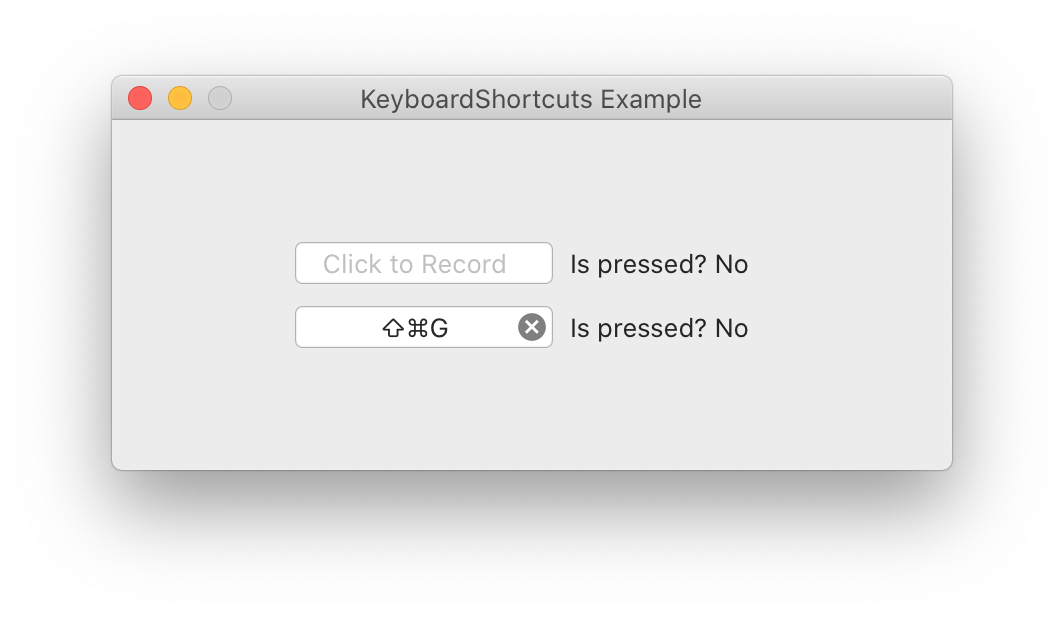
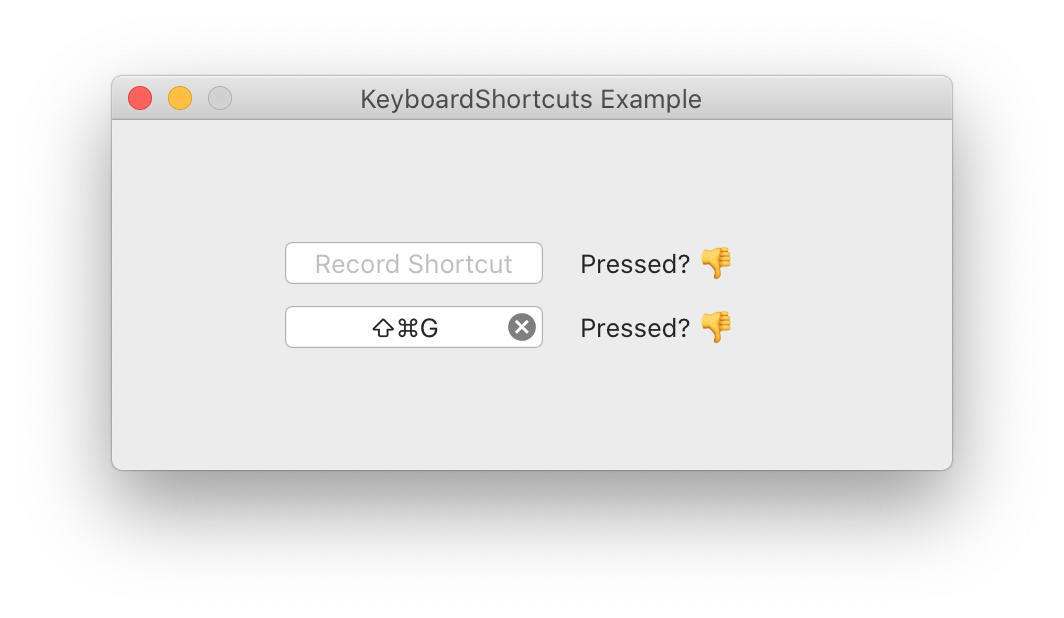
Cancel recording when the user clicks outside the input
Fixes #4

diff --git a/Sources/KeyboardShortcuts/RecorderCocoa.swift b/Sources/KeyboardShortcuts/RecorderCocoa.swift
@@ -40,12 +40,21 @@ extension KeyboardShortcuts {
 			return size
 		}
 
+		private var cancelButton: NSButtonCell?
+
+		private var showsCancelButton: Bool {
+			get { (cell as? NSSearchFieldCell)?.cancelButtonCell != nil }
+			set {
+				(cell as? NSSearchFieldCell)?.cancelButtonCell = newValue ? cancelButton : nil
+			}
+		}
+
 		public required init(for name: Name) {
 			self.shortcutName = name
 
 			super.init(frame: .zero)
 			self.delegate = self
-			self.placeholderString = "Click to Record"
+			self.placeholderString = "Record Shortcut"
 			self.centersPlaceholder = true
 			self.alignment = .center
 			(self.cell as? NSSearchFieldCell)?.searchButtonCell = nil
@@ -59,6 +68,10 @@ extension KeyboardShortcuts {
 			self.setContentHuggingPriority(.defaultHigh, for: .vertical)
 			self.setContentHuggingPriority(.defaultHigh, for: .horizontal)
 			self.widthAnchor.constraint(greaterThanOrEqualToConstant: CGFloat(minimumWidth)).isActive = true
+
+			// Hide the cancel button when not showing the shortcut so the placeholder text is properly centered. Must be last.
+			self.cancelButton = (self.cell as? NSSearchFieldCell)?.cancelButtonCell
+			self.showsCancelButton = !stringValue.isEmpty
 		}
 
 		@available(*, unavailable)
@@ -71,12 +84,20 @@ extension KeyboardShortcuts {
 			if stringValue.isEmpty {
 				userDefaultsRemove(name: shortcutName)
 			}
+
+			showsCancelButton = !stringValue.isEmpty
+
+			if stringValue.isEmpty {
+				// Hack to ensure that the placeholder centers after the above `showsCancelButton` setter.
+				focus()
+			}
 		}
 
 		/// :nodoc:
 		public func controlTextDidEndEditing(_ object: Notification) {
 			eventMonitor = nil
-			placeholderString = "Click to Record"
+			placeholderString = "Record Shortcut"
+			showsCancelButton = !stringValue.isEmpty
 		}
 
 		/// :nodoc:
@@ -88,10 +109,26 @@ extension KeyboardShortcuts {
 			}
 
 			placeholderString = "Press Shortcut"
+			showsCancelButton = !stringValue.isEmpty
 			hideCaret()
 
-			eventMonitor = LocalEventMonitor(events: [.keyDown]) { [weak self] event in
+			eventMonitor = LocalEventMonitor(events: [.keyDown, .leftMouseUp, .rightMouseUp]) { [weak self] event in
 				guard let self = self else {
+					return nil
+				}
+
+				let clickPoint = self.convert(event.locationInWindow, from: nil)
+				let clickMargin: CGFloat = 3
+
+				if
+					(event.type == .leftMouseUp || event.type == .rightMouseUp),
+					!self.frame.insetBy(dx: -clickMargin, dy: -clickMargin).contains(clickPoint)
+				{
+					self.blur()
+					return nil
+				}
+
+				guard event.isKeyEvent else {
 					return nil
 				}
 
@@ -99,6 +136,9 @@ extension KeyboardShortcuts {
 					event.modifiers.isEmpty,
 					event.specialKey == .tab
 				{
+					self.blur()
+
+					// We intentionally bubble up the event so it can focus the next responder.
 					return event
 				}
 
@@ -134,24 +174,37 @@ extension KeyboardShortcuts {
 				}
 
 				if let menuItem = shortcut.takenByMainMenu {
+					// TODO: Find a better way to make it possible to dismiss the alert by pressing "Enter". How can we make the input automatically temporarily lose focus while the alert is open?
+					self.blur()
+
 					NSAlert.showModal(
 						for: self.window,
 						message: "This keyboard shortcut cannot be used as it's already used by the “\(menuItem.title)” menu item."
 					)
+
+					self.focus()
+
 					return nil
 				}
 
 				guard !shortcut.isTakenBySystem else {
+					self.blur()
+
 					NSAlert.showModal(
 						for: self.window,
 						message: "This keyboard shortcut cannot be used as it's already a system-wide keyboard shortcut.",
 						// TODO: Add button to offer to open the relevant system preference pane for the user.
 						informativeText: "Most system-wide keyboard shortcuts can be changed in “System Preferences › Keyboard › Shortcuts“."
 					)
+
+					self.focus()
+
 					return nil
 				}
 
 				self.stringValue = "\(shortcut)"
+				self.showsCancelButton = true
+
 				userDefaultsSet(name: self.shortcutName, shortcut: shortcut)
 				self.blur()
 
@@ -159,6 +212,10 @@ extension KeyboardShortcuts {
 			}.start()
 
 			return shouldBecomeFirstResponder
+		}
+
+		private func focus() {
+			window?.makeFirstResponder(self)
 		}
 
 		private func blur() {

diff --git a/KeyboardShortcutsExample/ContentView.swift b/KeyboardShortcutsExample/ContentView.swift
@@ -14,12 +14,14 @@ struct ContentView: View {
 		VStack {
 			HStack {
 				KeyboardShortcuts.Recorder(for: .testShortcut1)
-				Text("Is pressed? \(isPressed1 ? "Yes" : "No")")
+					.padding(.trailing, 10)
+				Text("Pressed? \(isPressed1 ? "👍" : "👎")")
 					.frame(width: 100, alignment: .leading)
 			}
 			HStack {
 				KeyboardShortcuts.Recorder(for: .testShortcut2)
-				Text("Is pressed? \(isPressed2 ? "Yes" : "No")")
+					.padding(.trailing, 10)
+				Text("Pressed? \(isPressed2 ? "👍" : "👎")")
 					.frame(width: 100, alignment: .leading)
 			}
 		}
